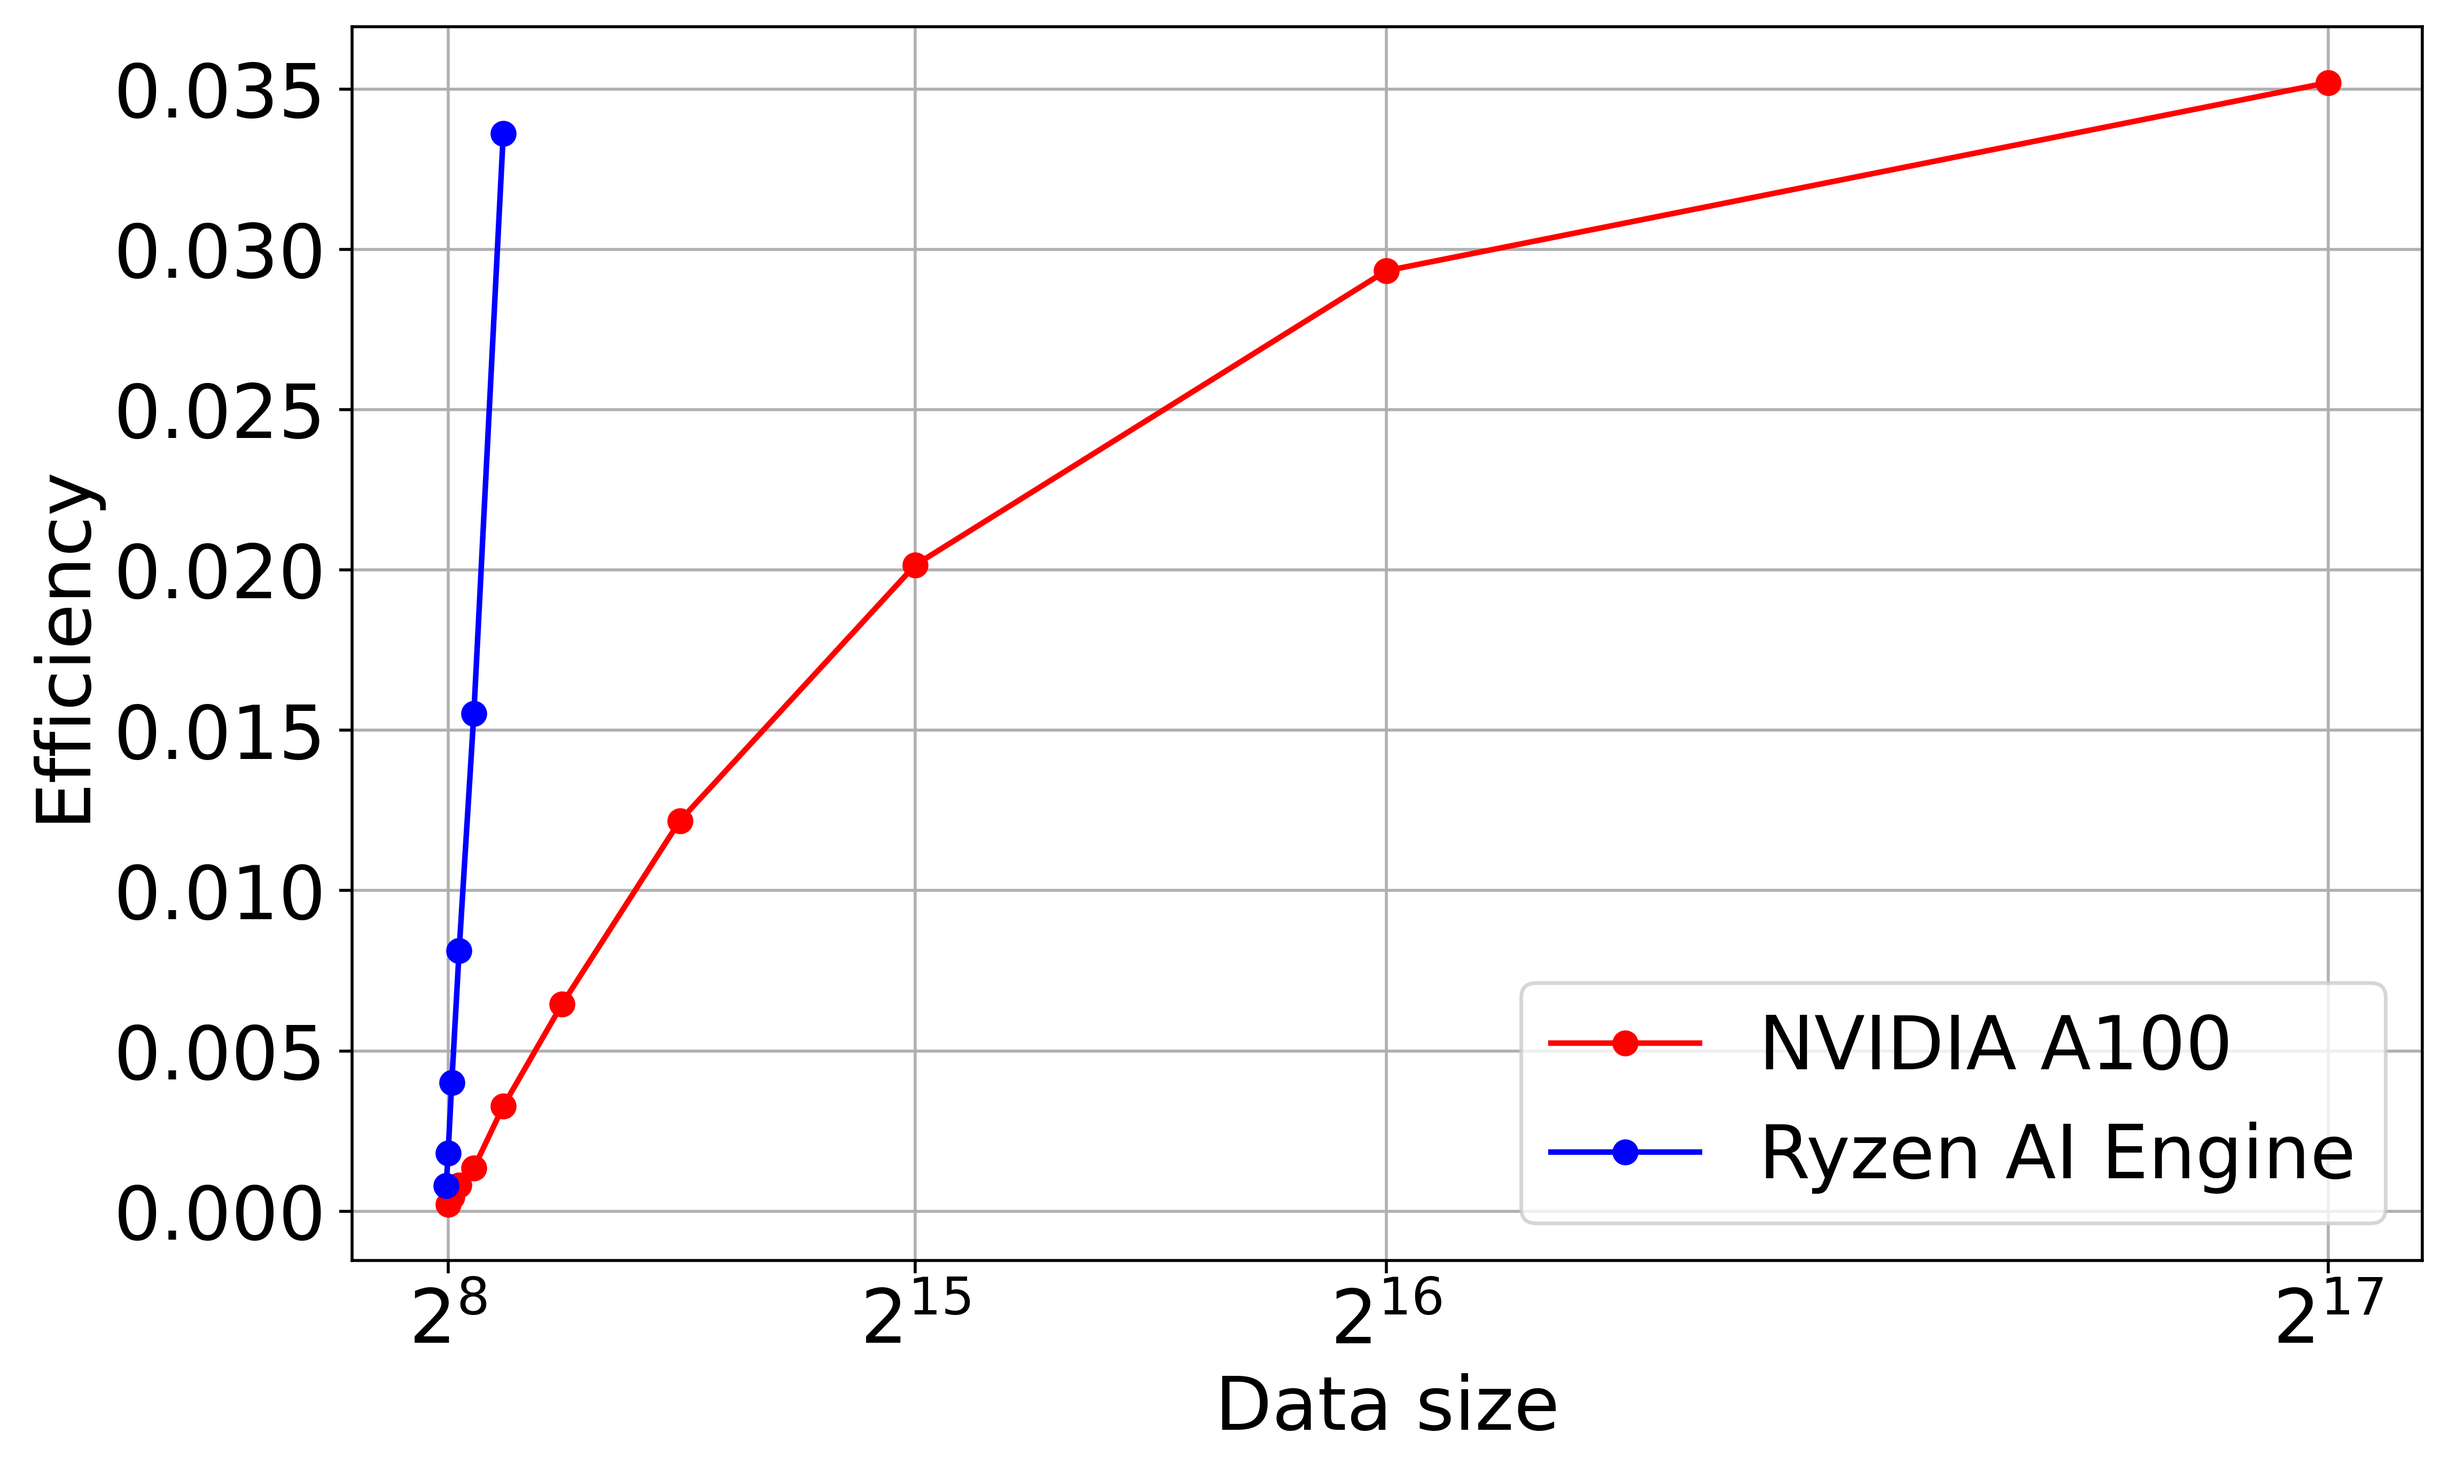
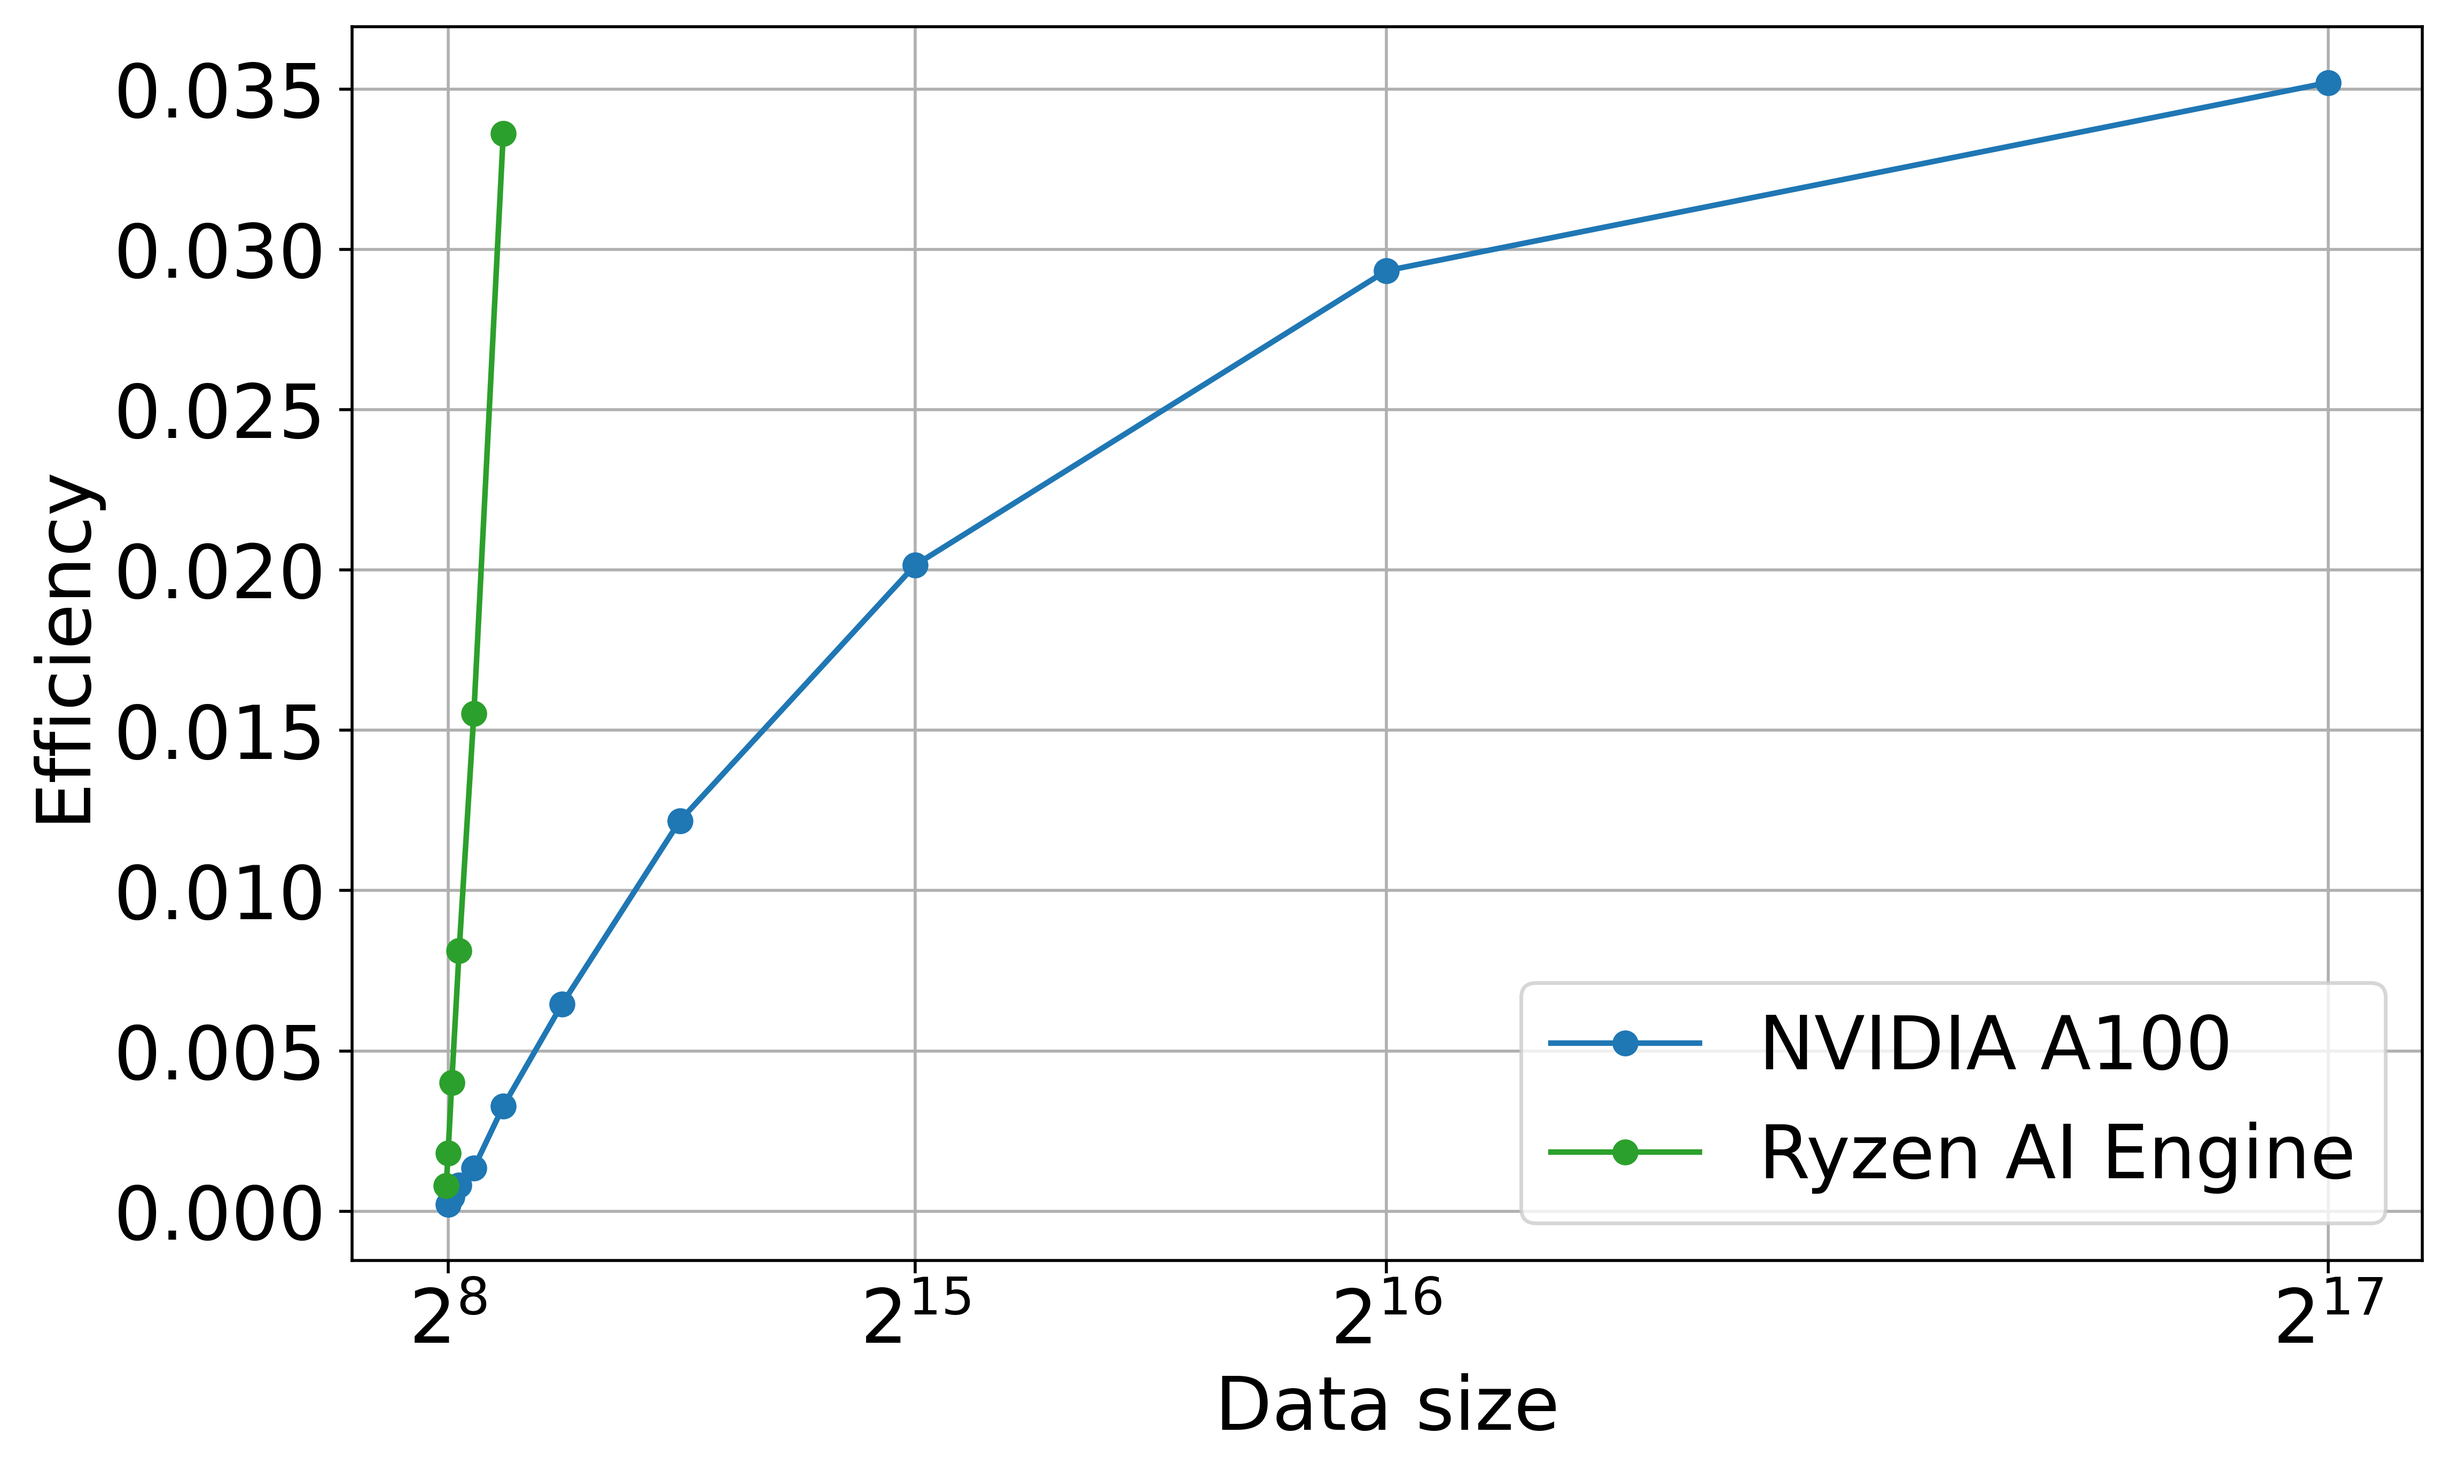
reduce scalar copy

diff --git a/ntt-16core/aie2.py b/ntt-16core/aie2.py
@@ -60,6 +60,12 @@ def ntt():
             "swap_buff",
             inputs=[memRef_ty_core_half, memRef_ty_core_half, T.i32()],
         )
+        
+        # void write_back(int32_t *to, int32_t *a, int32_t *b, int32_t N_ab) {
+        write_back = external_func(
+            "write_back",
+            inputs=[memRef_ty_core, memRef_ty_core_half, memRef_ty_core_half, T.i32()],
+        )
 
         # Tile declarations
         ShimTiles = []
@@ -199,7 +205,7 @@ def ntt():
                             of_lock_up[c][2].release(ObjectFifoPort.Produce, 1)
                         else:
                             # Dummy
-                            for i in for_(data_percore // 2):
+                            for i in for_(16):
                                 v0 = memref.load(buffs_a0[c][r], [i])
                                 memref.store(v0, buffs_a0[c][r], [i])
                                 yield_([]) 
@@ -236,7 +242,7 @@ def ntt():
                             of_lock_left[r][2].release(ObjectFifoPort.Produce, 1)                  
                         else:
                             # dummy
-                            for i in for_(data_percore // 2):
+                            for i in for_(16):
                                 v0 = memref.load(buffs_a0[c][r], [i])
                                 memref.store(v0, buffs_a0[c][r], [i])
                                 yield_([])   
@@ -248,22 +254,14 @@ def ntt():
                             of_lock_left[r][1].acquire(ObjectFifoPort.Produce, 1)
                             of_lock_left[r][2].acquire(ObjectFifoPort.Consume, 1)                  
                             of_lock_left_additional[r].acquire(ObjectFifoPort.Produce, 1)                  
-                            for i in for_(data_percore // 2):
-                                v0_c1 = memref.load(buffs_a0[1][r], [i])
-                                v1_c1 = memref.load(buffs_a1[1][r], [i])
-                                v0_c2 = memref.load(buffs_a0[2][r], [i])
-                                v1_c2 = memref.load(buffs_a1[2][r], [i])
-                                memref.store(v0_c2, buffs_a0[1][r], [i])
-                                memref.store(v1_c2, buffs_a1[1][r], [i])
-                                memref.store(v0_c1, buffs_a0[2][r], [i])
-                                memref.store(v1_c1, buffs_a1[2][r], [i])
-                                yield_([]) 
+                            call(swap_buff, [buffs_a0[1][r], buffs_a0[2][r], data_percore // 2])
+                            call(swap_buff, [buffs_a1[1][r], buffs_a1[2][r], data_percore // 2])
                             of_lock_left[r][2].release(ObjectFifoPort.Consume, 1)                  
                             of_lock_left[r][1].release(ObjectFifoPort.Produce, 1)
                             of_lock_left_additional[r].release(ObjectFifoPort.Produce, 1)                  
                         else:
                             # Dummy
-                            for i in for_(data_percore // 2):
+                            for i in for_(16):
                                 v0 = memref.load(buffs_a0[c][r], [i])
                                 memref.store(v0, buffs_a0[c][r], [i])
                                 yield_([])
@@ -287,7 +285,7 @@ def ntt():
                             of_lock_left_additional2[r].release(ObjectFifoPort.Produce, 1)                  
                         else:
                             # dummy
-                            for i in for_(data_percore // 2):
+                            for i in for_(16):
                                 v0 = memref.load(buffs_a0[c][r], [i])
                                 memref.store(v0, buffs_a0[c][r], [i])
                                 yield_([])   
@@ -301,12 +299,15 @@ def ntt():
                         elif c == 2:
                             of_lock_left_additional2[r].acquire(ObjectFifoPort.Consume, 1) 
                         
+                        """
                         for i in for_(data_percore // 2):
                             v0 = memref.load(buffs_a0[c][r], [i])
                             v1 = memref.load(buffs_a1[c][r], [i])
                             memref.store(v0, elem_out, [i])
                             memref.store(v1, elem_out, [i + data_percore // 2])
                             yield_([])
+                        """
+                        call(write_back, [elem_out, buffs_a0[c][r], buffs_a1[c][r], data_percore // 2])
                         
                         if c  == 0:
                             of_lock_left[r][0].release(ObjectFifoPort.Consume, 1)                  

diff --git a/aie_core.cc b/aie_core.cc
@@ -135,12 +135,26 @@ void swap_buff(int32_t *a, int32_t *b, int32_t N) {
   for (int i = 0; i < F; i++){
     int32_t *__restrict pa_i = a + i * vec_prime;
     int32_t *__restrict pb_i = b + i * vec_prime;
-    //aie::vector<int32_t, vec_prime> va_i = aie::load_v(pa_i);
-    //aie::vector<int32_t, vec_prime> vb_i = aie::load_v(pb_i);
-    aie::vector<int32_t, vec_prime> va_i = aie::broadcast<int32_t, vec_prime>(11);
-    aie::vector<int32_t, vec_prime> vb_i = aie::broadcast<int32_t, vec_prime>(22);
+    aie::vector<int32_t, vec_prime> va_i = aie::load_v(pa_i);
+    aie::vector<int32_t, vec_prime> vb_i = aie::load_v(pb_i);
     aie::store_v(pa_i, vb_i);
     aie::store_v(pb_i, va_i);
+  }
+}
+
+void write_back(int32_t *to, int32_t *a, int32_t *b, int32_t N_ab) {
+  const int F = N_ab / vec_prime;
+  for (int i = 0; i < F; i++){
+    int32_t *__restrict pa_i = a + i * vec_prime;
+    int32_t *__restrict pto_i = to + i * vec_prime;
+    aie::vector<int32_t, vec_prime> va_i = aie::load_v(pa_i);
+    aie::store_v(pto_i, va_i);
+  }
+  for (int i = 0; i < F; i++){
+    int32_t *__restrict pb_i = b + i * vec_prime;
+    int32_t *__restrict pto_i = to + N_ab + i * vec_prime;
+    aie::vector<int32_t, vec_prime> vb_i = aie::load_v(pb_i);
+    aie::store_v(pto_i, vb_i);
   }
 }
 

diff --git a/test.cpp b/test.cpp
@@ -199,6 +199,14 @@ int main(int argc, const char *argv[]) {
       answers[base_i + j] = answers_input[i * block_size + j];
     }
   }
+  /*
+  // Swap answers[0...63] <-> answers[64...127]
+  for (int i = 0; i < 64; i++){
+    int32_t tmp = answers[i];
+    answers[i] = answers[64 + i];
+    answers[64 + i] = tmp;
+  }
+  */
   
   int errors = 0;
   std::cout << "Verifying results with " << filename << std::endl;
@@ -207,7 +215,7 @@ int main(int argc, const char *argv[]) {
     int32_t ref = answers[i];
     int32_t test = bufOut[i];
     if (test != ref) {
-      //std::cout << "[" << i << "] Error " << test << " != " << ref << std::endl;
+      std::cout << "[" << i << "] Error " << test << " != " << ref << std::endl;
       errors++;
     } else {
       //std::cout << "[" << i << "] Correct " << test << " == " << ref << std::endl;

diff --git a/profile/plot_efficiency.py b/profile/plot_efficiency.py
@@ -58,8 +58,8 @@ def format_func(value, tick_number):
 
 fig, ax = plt.subplots(figsize=(10, 6))
 
-plt.plot(x_gpu, y_gpu, marker='o', color='r', label='NVIDIA A100')
-plt.plot(x_aie, y_aie, marker='o', color='b', label='Ryzen AI Engine')
+plt.plot(x_gpu, y_gpu, marker='o', color='tab:blue', label='NVIDIA A100')
+plt.plot(x_aie, y_aie, marker='o', color='tab:green', label='Ryzen AI Engine')
 plt.xlabel('Data size', fontsize=20)
 ax.xaxis.set_major_formatter(plt.FuncFormatter(format_func))
 plt.xticks([2 ** i for i in [8, 15, 16, 17]], fontsize=14)
